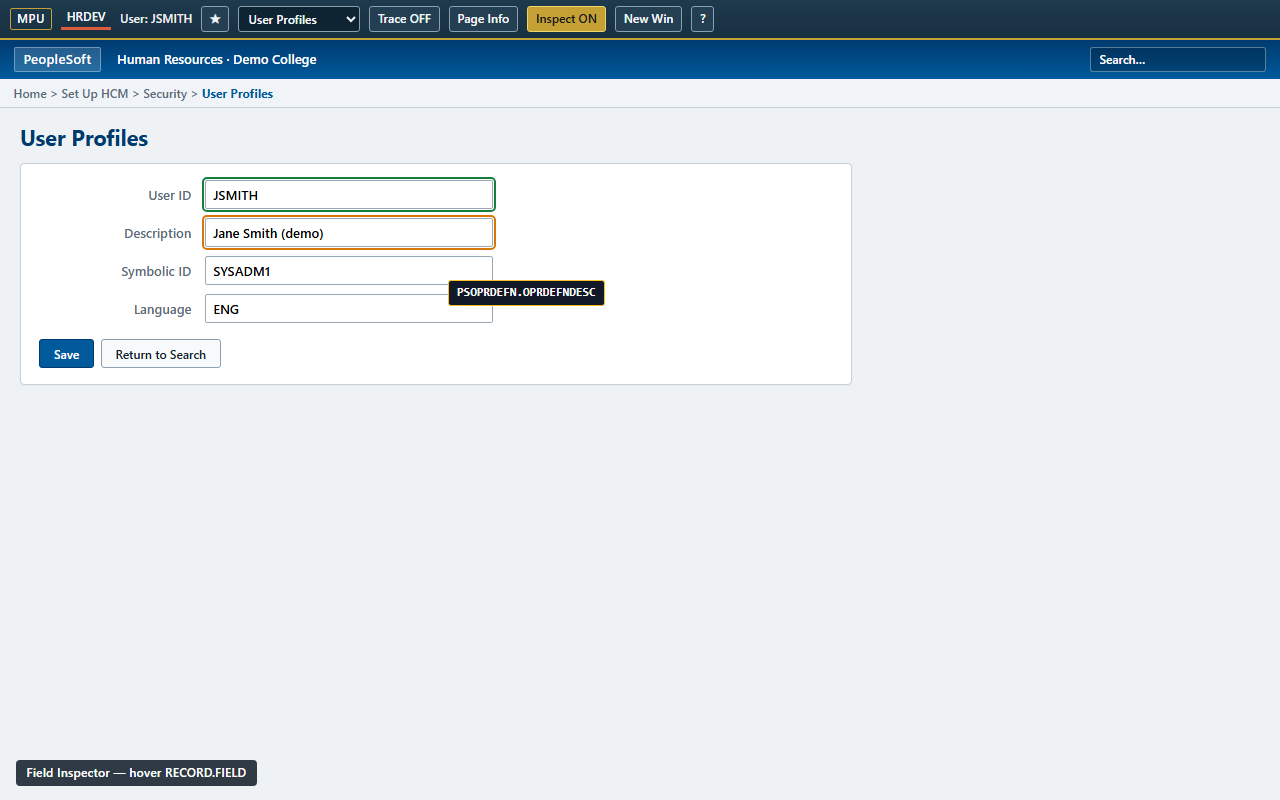
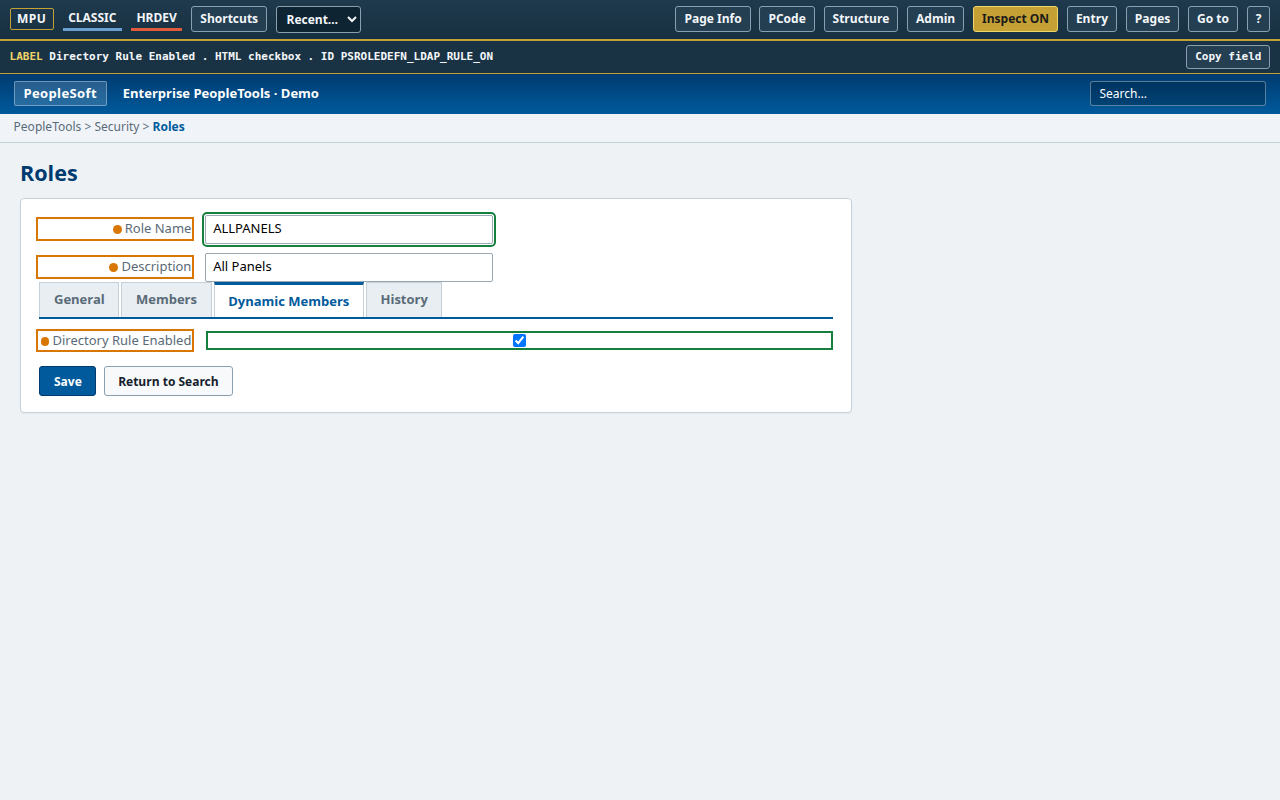
docs(store): refresh listing screenshots for Roles and Options
Regenerate 01/04/05 from updated listing mock HTML aligned with live
Classic Roles and Options Features UI. Keep 02 Favorites and 03 Page Info.
Add npm run capture:store-screenshots orchestration.

Changed region(s): [[0.0, 0.0, 1.0, 0.25], [0.0312, 0.2188, 0.6562, 0.5], [0.0, 0.9375, 0.2188, 1.0]]

diff --git a/scripts/generate-store-assets.ts b/scripts/generate-store-assets.ts
@@ -162,6 +162,36 @@ const SHARED_CSS = `
   }
   .fav-open div { padding: 0.35rem 0.65rem; }
   .fav-open .sel { background: ${COLORS.gold}; color: #1a1a1a; font-weight: 650; }
+  .mpu-bar-row2 {
+    display: flex; flex-wrap: wrap; align-items: center; gap: 0.35rem 0.5rem;
+    padding: 0.25rem 0.6rem; background: #1a3344; color: ${COLORS.cream};
+    font: 600 11px/1.3 ui-monospace, Consolas, monospace;
+    border-bottom: 1px solid ${COLORS.gold};
+  }
+  .mpu-bar-row2 .grow { flex: 1; min-width: 12rem; }
+  .mpu-bar-row2 .hi { color: ${COLORS.goldLite}; }
+  .inspect-dot {
+    display: inline-block; width: 0.55rem; height: 0.55rem; border-radius: 50%;
+    background: ${COLORS.amber}; margin-right: 0.2rem; vertical-align: middle;
+  }
+  .ps-inspect {
+    outline: 2px solid ${COLORS.amber}; outline-offset: 1px; position: relative;
+  }
+  .ps-tabs {
+    display: flex; gap: 0; border-bottom: 2px solid ${COLORS.psBlue};
+    margin: 0 0 0.75rem; font: 600 13px "Segoe UI";
+  }
+  .ps-tabs span {
+    padding: 0.45rem 0.85rem; background: #e8eef2; border: 1px solid ${COLORS.border};
+    border-bottom: none; margin-right: 2px; color: ${COLORS.muted};
+  }
+  .ps-tabs .on { background: #fff; color: ${COLORS.psBlue}; border-top: 3px solid ${COLORS.psBlue}; }
+  .search-grid {
+    display: grid; grid-template-columns: 1fr 1fr; gap: 1rem 2rem; max-width: 46rem;
+  }
+  .search-field label { display: block; font: 600 12px "Segoe UI"; color: ${COLORS.muted}; margin-bottom: 0.25rem; }
+  .search-row { display: flex; gap: 0.35rem; align-items: center; }
+  .search-row select { font: inherit; font-size: 12px; }
 `;
 
 function shell(htmlBody: string, width: number, height: number, extraCss = ""): string {
@@ -207,6 +237,109 @@ function mpuBar(opts: {
   </div>`;
 }
 
+function mpuBarRoles(opts: {
+  inspectOn?: boolean;
+  statusLine?: string;
+  copyField?: boolean;
+} = {}): string {
+  const inspect = opts.inspectOn
+    ? `<button class="mpu-btn" aria-pressed="true">Inspect ON</button>`
+    : `<button class="mpu-btn">Inspect</button>`;
+  const status = opts.statusLine
+    ? `<div class="mpu-bar-row2" role="status">
+        <span class="grow"><span class="hi">LABEL</span> ${opts.statusLine}</span>
+        ${opts.copyField ? `<button class="mpu-btn">Copy field</button>` : ""}
+      </div>`
+    : "";
+  return `
+  <div class="mpu-bar" role="toolbar" aria-label="Morris PeopleSoft Utilities">
+    <span class="mpu-brand">MPU</span>
+    <span class="mpu-env" style="border-color:#6b9fd4">CLASSIC</span>
+    <span class="mpu-env">HRDEV</span>
+    <button class="mpu-btn">Shortcuts</button>
+    <select class="mpu-select" aria-label="Recent pages"><option>Recent…</option></select>
+    <span style="flex:1"></span>
+    <button class="mpu-btn">Page Info</button>
+    <button class="mpu-btn">PCode</button>
+    <button class="mpu-btn">Structure</button>
+    <button class="mpu-btn">Admin</button>
+    ${inspect}
+    <button class="mpu-btn">Entry</button>
+    <button class="mpu-btn">Pages</button>
+    <button class="mpu-btn">Go to</button>
+    <button class="mpu-btn">?</button>
+  </div>${status}`;
+}
+
+function psRolesChrome(): string {
+  return `
+  <div class="ps-chrome">
+    <span class="ps-logo">PeopleSoft</span>
+    <span>Enterprise PeopleTools · Demo</span>
+    <span class="ps-search">Search…</span>
+  </div>`;
+}
+
+function rolesSearchPage(): string {
+  return `
+  ${psRolesChrome()}
+  <div class="ps-page">
+    <h1 class="ps-title ps-inspect"><span class="inspect-dot"></span>Roles</h1>
+    <p class="ps-inspect" style="font:500 13px Segoe UI;color:${COLORS.muted};margin:-0.35rem 0 0.85rem">
+      <span class="inspect-dot"></span>Find an Existing Value
+    </p>
+    <div class="search-grid">
+      <div class="search-field ps-inspect">
+        <label><span class="inspect-dot"></span>Role Name</label>
+        <div class="search-row">
+          <select><option>begins with</option></select>
+          <input class="ps-input" style="max-width:none;flex:1" value="" />
+        </div>
+      </div>
+      <div class="search-field ps-inspect">
+        <label><span class="inspect-dot"></span>Description</label>
+        <div class="search-row">
+          <select><option>begins with</option></select>
+          <input class="ps-input" style="max-width:none;flex:1" value="" />
+        </div>
+      </div>
+    </div>
+    <div class="ps-actions">
+      <button class="primary ps-inspect">Search</button>
+      <button class="ps-inspect">Clear</button>
+      <button class="ps-inspect" style="margin-left:auto">Add a New Value</button>
+    </div>
+  </div>`;
+}
+
+function rolesDetailPage(): string {
+  return `
+  ${psRolesChrome()}
+  <div class="ps-nav">PeopleTools &gt; Security &gt; <strong>Roles</strong></div>
+  <div class="ps-page">
+    <h1 class="ps-title">Roles</h1>
+    <div class="ps-card">
+      <div class="ps-grid">
+        <label class="ps-inspect"><span class="inspect-dot"></span>Role Name</label>
+        <input class="ps-input field-lock" value="ALLPANELS" />
+        <label class="ps-inspect"><span class="inspect-dot"></span>Description</label>
+        <input class="ps-input" value="All Panels" />
+      </div>
+      <div class="ps-tabs">
+        <span>General</span><span>Members</span><span class="on">Dynamic Members</span><span>History</span>
+      </div>
+      <div class="ps-grid" style="margin-top:0.5rem">
+        <label class="ps-inspect"><span class="inspect-dot"></span>Directory Rule Enabled</label>
+        <input type="checkbox" class="field-lock" checked />
+      </div>
+      <div class="ps-actions">
+        <button class="primary">Save</button>
+        <button>Return to Search</button>
+      </div>
+    </div>
+  </div>`;
+}
+
 function psPage(content: string): string {
   return `
   <div class="ps-chrome">
@@ -244,11 +377,7 @@ const shots: Record<string, { w: number; h: number; html: string }> = {
   "screenshots/01-utilities-bar.png": {
     w: 1280,
     h: 800,
-    html: shell(
-      `${mpuBar()}${psPage(formCard())}<div class="caption">MPU utilities bar on PeopleSoft</div>`,
-      1280,
-      800,
-    ),
+    html: shell(`${mpuBarRoles({ inspectOn: true })}${rolesSearchPage()}`, 1280, 800),
   },
   "screenshots/02-favorites.png": {
     w: 1280,
@@ -298,28 +427,11 @@ App Server: APPSRV-DEMO</pre>
     w: 1280,
     h: 800,
     html: shell(
-      `${mpuBar({ inspectOn: true })}
-      ${psPage(`
-        <h1 class="ps-title">User Profiles</h1>
-        <div class="ps-card">
-          <div class="ps-grid">
-            <label>User ID</label>
-            <input class="ps-input field-lock" id="PSOPRDEFN_OPRID" value="JSMITH" />
-            <label>Description</label>
-            <input class="ps-input field-hi" id="PSOPRDEFN_OPRDEFNDESC" value="Jane Smith (demo)" />
-            <label>Symbolic ID</label>
-            <input class="ps-input" id="PSOPRDEFN_SYMBOLICID" value="SYSADM1" />
-            <label>Language</label>
-            <input class="ps-input" id="PSOPRDEFN_LANGUAGE_CD" value="ENG" />
-          </div>
-          <div class="ps-actions">
-            <button class="primary">Save</button>
-            <button>Return to Search</button>
-          </div>
-        </div>
-      `)}
-      <div class="mpu-field-tip" style="left: 28rem; top: 17.5rem;">PSOPRDEFN.OPRDEFNDESC</div>
-      <div class="caption">Field Inspector — hover RECORD.FIELD</div>`,
+      `${mpuBarRoles({
+        inspectOn: true,
+        statusLine: "Directory Rule Enabled . HTML checkbox . ID PSROLEDEFN_LDAP_RULE_ON",
+        copyField: true,
+      })}${rolesDetailPage()}`,
       1280,
       800,
     ),
@@ -330,12 +442,14 @@ App Server: APPSRV-DEMO</pre>
     html: shell(
       `<div class="opts">
         <header class="top">
-          <h1>Morris PeopleSoft Utilities</h1>
-          <p>Configure features for business analysts and technical staff. Data stays on this device.</p>
+          <p class="brand">Morris PeopleSoft Utilities</p>
+          <h1>Options</h1>
+          <p class="lede">Tune the utilities bar for Classic and Fluid. Everything stays in <code>chrome.storage.local</code> on this device — no passwords, no telemetry.</p>
         </header>
         <nav class="tabs">
           <span class="tab on">Features</span>
           <span class="tab">Favorites</span>
+          <span class="tab">Upgrade</span>
           <span class="tab">Tracing</span>
           <span class="tab">Environments</span>
           <span class="tab">Host allowlist</span>
@@ -343,51 +457,74 @@ App Server: APPSRV-DEMO</pre>
         </nav>
         <section class="panel">
           <h2>Features</h2>
-          <label class="row"><input type="checkbox" checked disabled /> Show User ID</label>
-          <label class="row"><input type="checkbox" checked disabled /> Environment indicator</label>
-          <label class="row"><input type="checkbox" checked disabled /> Favorites</label>
-          <label class="row"><input type="checkbox" checked disabled /> Tracing</label>
-          <label class="row"><input type="checkbox" checked disabled /> Page Information</label>
-          <label class="row"><input type="checkbox" checked disabled /> Field Inspector</label>
-          <label class="row"><input type="checkbox" checked disabled /> New Window</label>
-          <label class="row"><input type="checkbox" checked disabled /> Auto-expand Advanced Search</label>
-          <label class="row"><input type="checkbox" disabled /> Auto-select Correct History</label>
-          <label class="row"><input type="checkbox" disabled /> Show bar on login page</label>
-          <label class="row quiet"><input type="checkbox" disabled /> Quiet mode — don’t prompt to name new environments</label>
-          <button class="primary" type="button">Save features</button>
+          <p class="panel-lede">Essentials and page helpers are on by default. Optional / careful items stay off until you need them.</p>
+          <div class="onboarding">
+            <h3>Welcome — quick checklist</h3>
+            <ol>
+              <li>Open a PeopleSoft Classic or Fluid page</li>
+              <li>Confirm the MPU bar appears (Environment / Page Info / Inspect)</li>
+              <li>Add a Shortcut with ★ (optional notes)</li>
+              <li>Optional: set Trace presets if you have UTILITIES security</li>
+            </ol>
+            <button class="primary" type="button">Got it — dismiss</button>
+          </div>
+          <div class="feature-group">
+            <h3 class="fg-title">Utilities bar</h3>
+            <p class="fg-desc">Orientation and navigation on every PeopleSoft page. Recommended on.</p>
+            <label class="row"><span>Environment indicator</span><input type="checkbox" checked disabled /></label>
+            <label class="row"><span>Show User ID</span><input type="checkbox" disabled /></label>
+            <label class="row"><span>Shortcuts</span><input type="checkbox" checked disabled /></label>
+            <label class="row"><span>Page Information</span><input type="checkbox" checked disabled /></label>
+          </div>
         </section>
-        <div class="caption">Options — local-only settings, no passwords or telemetry</div>
       </div>`,
       1280,
       800,
       `
       .opts {
-        --bg: #eef2f5; --card: #fff; --fg: #14202b; --accent: #1f3a4d;
-        --gold: #b8922a; --border: #c5d0d8;
+        --bg: #0e151c; --card: #182430; --fg: #e8eef2; --accent: #9ec9e6;
+        --gold: #e0c15a; --border: #314556;
         min-height: 100%; background:
-          radial-gradient(ellipse at top left, color-mix(in srgb, var(--gold) 18%, transparent), transparent 45%),
+          radial-gradient(ellipse 80% 50% at 0% -10%, color-mix(in srgb, var(--gold) 22%, transparent), transparent 55%),
           var(--bg);
         color: var(--fg); font: 16px/1.45 "Segoe UI", system-ui, sans-serif;
       }
-      .top, .tabs { max-width: 960px; margin: 0 auto; padding: 1rem 1.25rem; }
-      .top h1 { margin: 0 0 0.35rem; color: var(--accent); font-size: 1.75rem; }
-      .top p { margin: 0; opacity: 0.9; }
+      code { font: 500 0.9em ui-monospace, Consolas, monospace; }
+      .top, .tabs, .panel { max-width: 920px; margin: 0 auto; padding: 0.85rem 1.1rem; }
+      .brand { margin: 0; font-weight: 650; color: var(--accent); letter-spacing: 0.02em; }
+      .top h1 { margin: 0.15rem 0 0.35rem; font-size: 1.65rem; }
+      .lede { margin: 0; color: color-mix(in srgb, var(--fg) 88%, transparent); max-width: 42rem; }
       .tabs { display: flex; flex-wrap: wrap; gap: 0.35rem; padding-top: 0; }
       .tab {
         border: 1px solid var(--border); background: var(--card); color: var(--fg);
         border-radius: 999px; padding: 0.35rem 0.85rem; font: inherit;
       }
-      .tab.on { background: var(--accent); color: #fff; border-color: var(--accent); }
+      .tab.on { background: var(--accent); color: #0e151c; border-color: var(--accent); font-weight: 650; }
       .panel {
         background: var(--card); border: 1px solid var(--border); border-radius: 10px;
-        padding: 1rem 1.25rem 1.25rem; margin: 0 auto 2rem; max-width: 960px;
+        padding: 1rem 1.15rem 1.1rem; margin-bottom: 1rem;
+        box-shadow: 0 12px 32px color-mix(in srgb, #000 35%, transparent);
       }
-      .panel h2 { margin: 0 0 0.65rem; }
-      .row { display: flex; align-items: center; gap: 0.6rem; margin: 0.4rem 0; }
-      .row.quiet { margin-top: 0.75rem; }
+      .panel h2 { margin: 0 0 0.35rem; }
+      .panel-lede { margin: 0 0 0.75rem; color: color-mix(in srgb, var(--fg) 75%, transparent); font-size: 0.95rem; }
+      .onboarding {
+        border: 1px solid color-mix(in srgb, var(--gold) 55%, var(--border));
+        background: color-mix(in srgb, var(--gold) 10%, var(--card));
+        border-radius: 8px; padding: 0.75rem 0.9rem; margin-bottom: 0.85rem;
+      }
+      .onboarding h3 { margin: 0 0 0.35rem; font-size: 1rem; color: var(--gold); }
+      .onboarding ol { margin: 0 0 0.55rem 1.1rem; padding: 0; font-size: 0.92rem; }
+      .feature-group { margin-top: 0.35rem; }
+      .fg-title { margin: 0 0 0.2rem; font-size: 1rem; }
+      .fg-desc { margin: 0 0 0.45rem; font-size: 0.88rem; color: color-mix(in srgb, var(--fg) 72%, transparent); }
+      .row {
+        display: flex; align-items: center; justify-content: space-between;
+        gap: 0.6rem; margin: 0.35rem 0; padding: 0.35rem 0.45rem; border-radius: 6px;
+        background: color-mix(in srgb, var(--accent) 8%, var(--card));
+      }
       .primary {
-        margin-top: 0.85rem; background: var(--accent); color: #fff;
-        border: 1px solid var(--accent); border-radius: 6px; padding: 0.4rem 0.8rem; font: inherit;
+        background: var(--accent); color: #0e151c; border: 1px solid var(--accent);
+        border-radius: 6px; padding: 0.4rem 0.75rem; font: 650 inherit;
       }
       `,
     ),
@@ -638,6 +775,9 @@ function main() {
   }
 
   for (const [rel, spec] of Object.entries(shots)) {
+    const only = process.env.GENERATE_STORE_ONLY?.split(",").map((s) => s.trim()).filter(Boolean);
+    if (only?.length && !only.includes(rel)) continue;
+
     const outPath = resolve(outDir, rel);
     const isScreenshot = rel.startsWith("screenshots/");
     if (

diff --git a/scripts/capture-listing-screenshots.ts b/scripts/capture-listing-screenshots.ts
@@ -1,0 +1,52 @@
+/**
+ * Refresh listing screenshots 01, 04, 05 while keeping 02 (Favorites) and 03 (Page Info).
+ */
+import { createHash } from "node:crypto";
+import { readFileSync, existsSync, writeFileSync } from "node:fs";
+import { resolve, dirname } from "node:path";
+import { fileURLToPath } from "node:url";
+import { spawnSync } from "node:child_process";
+import { LIVE_CAPTURES_MARKER } from "./validate-store-screenshots.js";
+
+const root = resolve(dirname(fileURLToPath(import.meta.url)), "..");
+const shotDir = resolve(root, "store/assets/screenshots");
+
+function md5(path: string): string {
+  return createHash("md5").update(readFileSync(path)).digest("hex");
+}
+
+function run(cmd: string, args: string[], env?: Record<string, string>) {
+  const r = spawnSync(cmd, args, { cwd: root, stdio: "inherit", env: { ...process.env, ...env } });
+  if (r.status !== 0) process.exit(r.status ?? 1);
+}
+
+const keep = ["02-favorites.png", "03-page-info.png"] as const;
+const before: Record<string, string> = {};
+for (const name of keep) {
+  const p = resolve(shotDir, name);
+  if (!existsSync(p)) {
+    console.error(`Missing ${p}`);
+    process.exit(1);
+  }
+  before[name] = md5(p);
+}
+
+run("npm", ["run", "build"]);
+run("npx", ["tsx", "scripts/generate-store-assets.ts"], {
+  GENERATE_STORE_ONLY:
+    "screenshots/01-utilities-bar.png,screenshots/04-field-inspector.png,screenshots/05-options.png",
+});
+
+for (const name of keep) {
+  const after = md5(resolve(shotDir, name));
+  if (after !== before[name]) {
+    console.error(`${name} changed unexpectedly — restore from git`);
+    process.exit(1);
+  }
+}
+
+console.log("Listing screenshots 01, 04, 05 updated; 02 and 03 unchanged.");
+writeFileSync(
+  resolve(root, LIVE_CAPTURES_MARKER),
+  `capture-listing ${new Date().toISOString()}\n`,
+);

diff --git a/store/incoming/README.md b/store/incoming/README.md
@@ -20,7 +20,11 @@ Use either the final filename or a short alias:
 | `04-field-inspector.png` or `field-inspector.png` | Field Inspector (Inspect ON) |
 | `05-options.png` or `options.png` | Options → Features |
 
-Chrome Web Store allows up to five screenshots; you can submit with three and add more later.
+## Override with your own PNGs
+
+If you have **real** browser captures (recommended for final publish), drop them in this folder and run `npm run import:store-screenshots` — that replaces the generated files below.
+
+`npm run capture:store-screenshots` refreshes **01 / 04 / 05** from listing mock HTML (Roles + Options layout) and leaves **02 / 03** unchanged.
 
 **Privacy:** blur or crop user IDs, hostnames, or business keys you do not want on a public listing.
 

diff --git a/CHANGELOG.md b/CHANGELOG.md
@@ -12,6 +12,7 @@ All notable changes to Morris PeopleSoft Utilities are documented here.
 
 ### Changed
 
+- **Store listing screenshots:** `01` (Roles search + Inspect), `04` (Field Inspector lock bar), and `05` (Options Features) refreshed via `npm run capture:store-screenshots`; `02` Favorites and `03` Page Info unchanged
 - **Release workflow** no longer runs `generate:store-assets` on tag (avoids overwriting committed listing screenshots)
 - **`generate:store-assets`** skips screenshot regeneration when `store/assets/screenshots/.live-captures` exists or `SKIP_STORE_SCREENSHOTS=1`
 - Submission checklist and release-readiness docs updated for dashboard upload
